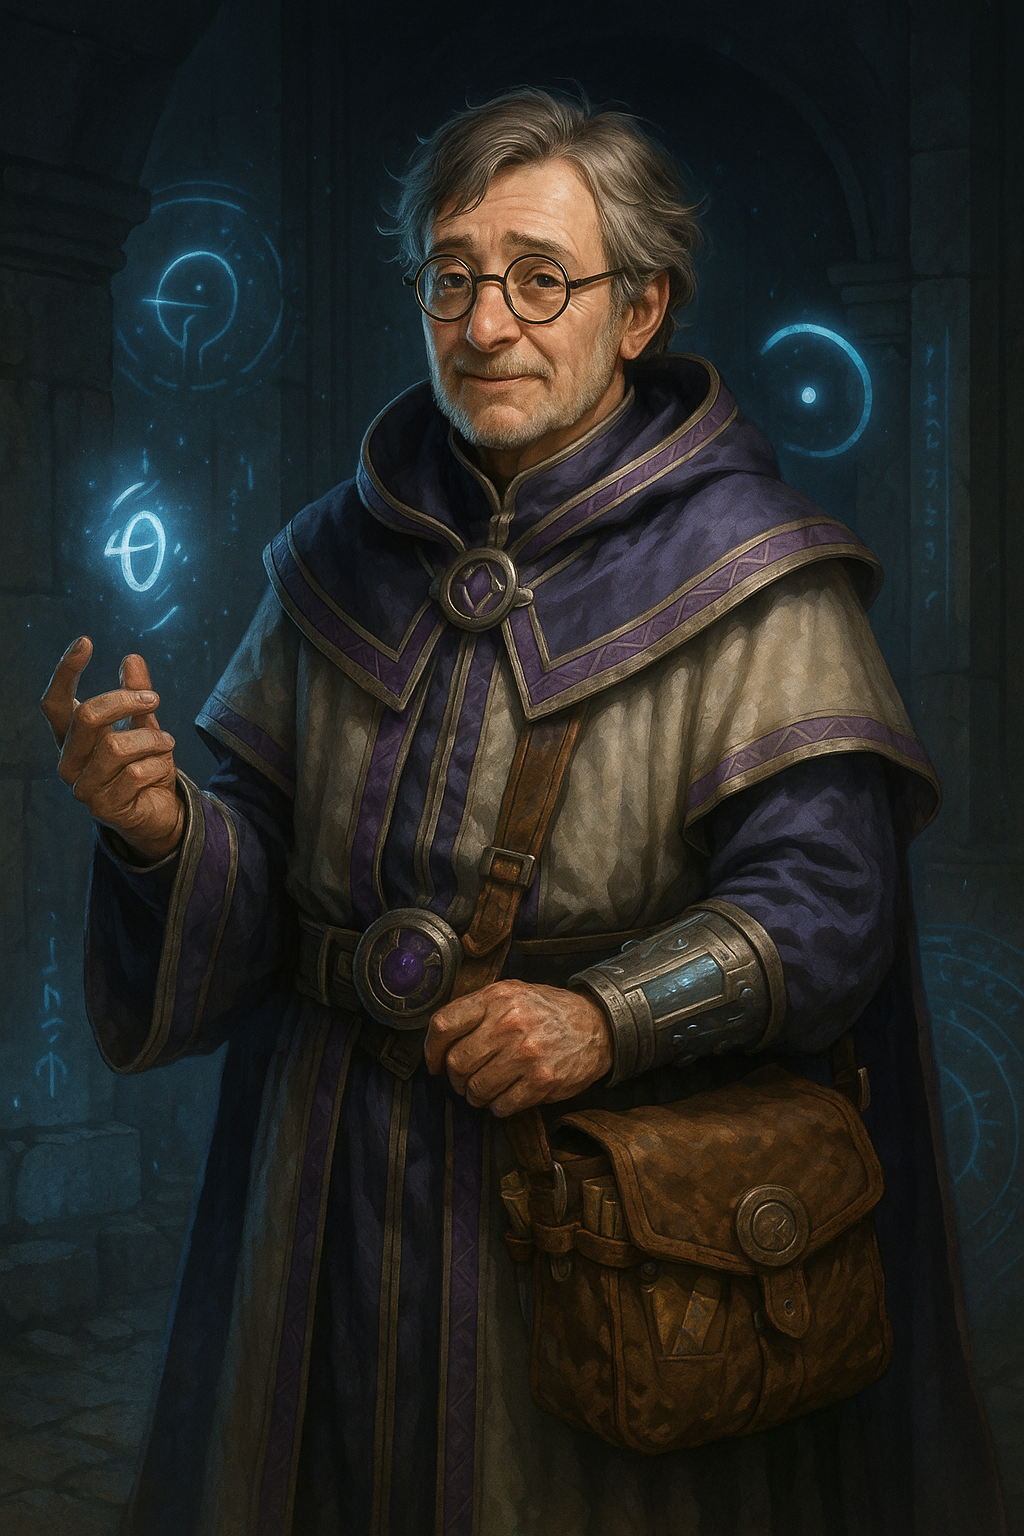
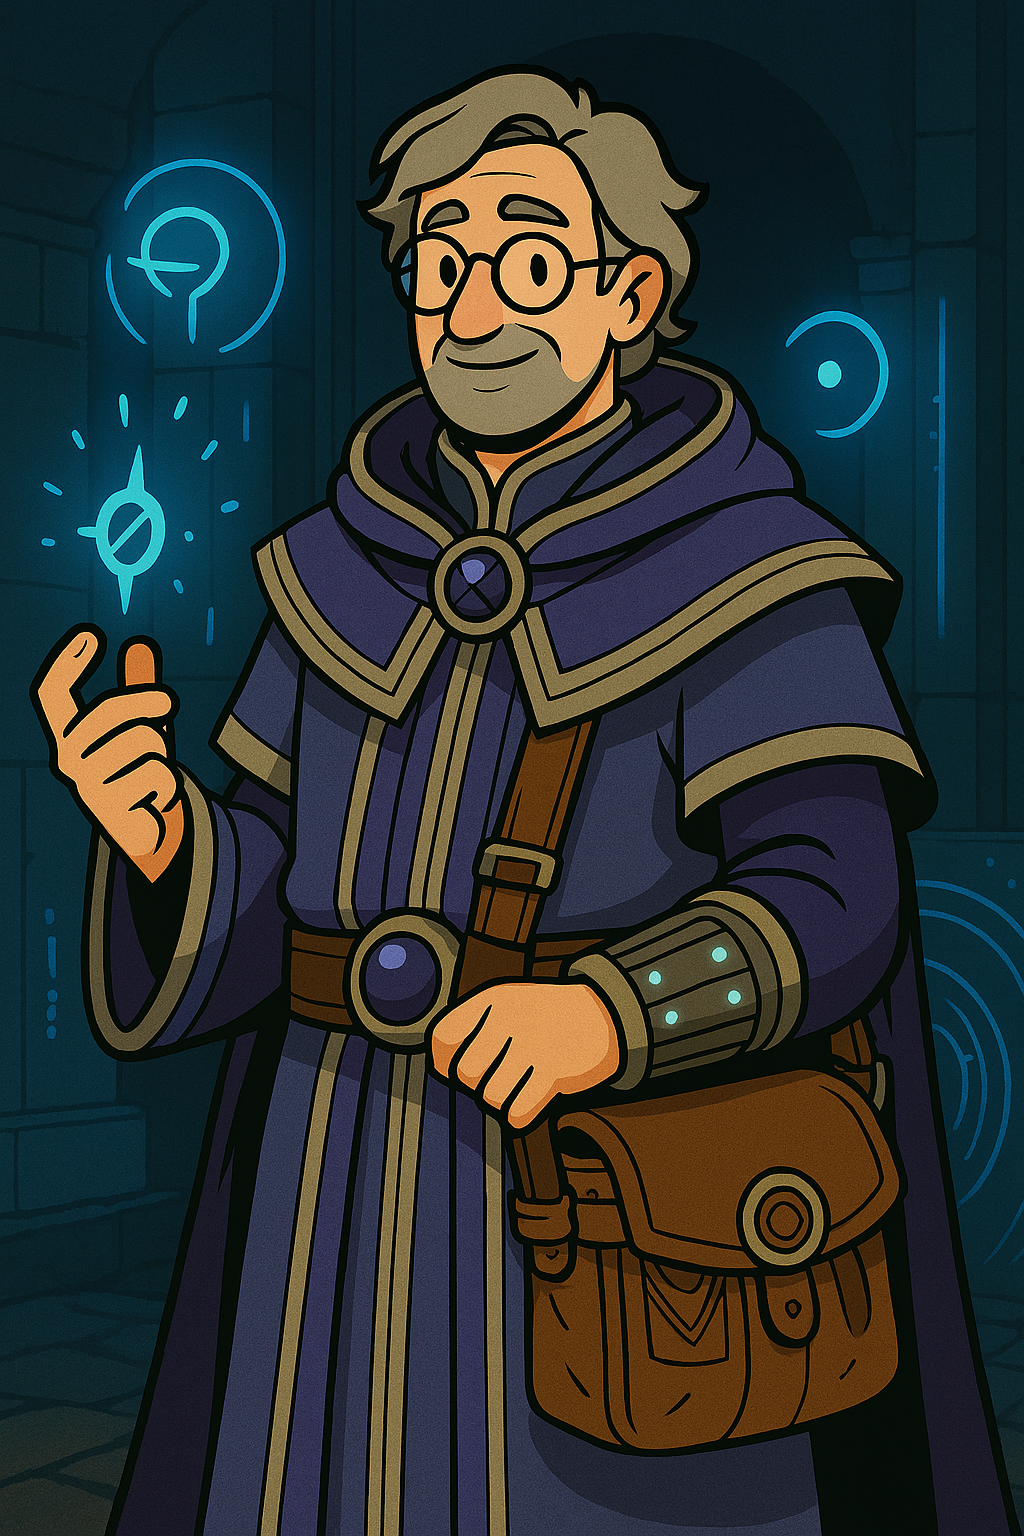
char img refresh, DoT charge bug fixed

diff --git a/Assets/scripts/Arena/PassiveManager.cs b/Assets/scripts/Arena/PassiveManager.cs
@@ -1,6 +1,7 @@
 using System.Collections.Generic;
 using UnityEngine;
 using System.Linq;
+using Unity.VisualScripting;
 
 public static class PassiveManager
 {
@@ -18,12 +19,12 @@ public static class PassiveManager
     }
 
     // Called at the start of each round
-    public static void OnRoundStart(List<GameCharacter> allCharacters)
+    public static void OnRoundStart(List<GameCharacter> allCharacters, int roundNum)
     {
         //Debug.Log("PassiveManager: OnRoundStart triggered.");
         foreach (var character in allCharacters)
         {
-            HandleRoundStartPassives(character);
+            HandleRoundStartPassives(character, roundNum);
         }
     }
 
@@ -143,15 +144,21 @@ public static class PassiveManager
         }
     }
 
-    private static void HandleRoundStartPassives(GameCharacter character)
+    private static void HandleRoundStartPassives(GameCharacter character, int roundNum)
     {
         // For passives that trigger each round (like Nou, Mizca, Rover, Olthar)
         if (character.Name == "Mizca")
         {
-            if (character.DamageMultiplier <= 1.5)
+            if (roundNum <= 1)
             {
-                character.ModifyDamageMultiplier(.15f);
+                Debug.Log($"Round Number is {roundNum}");
+                return;
             }
+            if (character.DamageMultiplier <= 1.5)
+                {
+
+                    character.ModifyDamageMultiplier(.15f);
+                }
             character.TakeDamage(10, DamageType.True);
             Debug.Log("Mizca's passive applied: 15% dmg bonus at start of round and takes 10 true dmg");
             Logger.Instance.PostLog("Mizca's passive applied: 15% dmg bonus at start of round and takes 10 true dmg", LogType.Passive);

diff --git a/Assets/scripts/Arena/StatusEffect.cs b/Assets/scripts/Arena/StatusEffect.cs
@@ -97,14 +97,25 @@ public class StatusEffect
     // Apply the effect to the target on their turn
     public void ApplyEffect(GameCharacter target)
     {
+        int valueDone = 0;
         switch (Type)
         {
             case StatusEffectType.DamageOverTime:
-                target.TakeDamage(Mathf.RoundToInt(Value), DamageType);
+                valueDone = target.TakeDamage(Mathf.RoundToInt(Value), DamageType);
+                if (Source != null)
+                {
+                    Debug.Log($"{Source.Name} gained {valueDone} charge");
+                    Source.IncreaseCharge(valueDone);
+                }
                 break;
 
             case StatusEffectType.HealingOverTime:
-                target.Heal(Mathf.RoundToInt(Value));
+                valueDone = target.Heal(Mathf.RoundToInt(Value));
+                if (Source != null)
+                {
+                    Debug.Log($"{Source.Name} gained {valueDone} charge");
+                    Source.IncreaseCharge(valueDone);
+                }
                 break;
 
             case StatusEffectType.Shield:

diff --git a/Assets/scripts/CharSelectScripts/CharcterDisplayManager.cs b/Assets/scripts/CharSelectScripts/CharcterDisplayManager.cs
@@ -74,13 +74,14 @@ public class CharacterDisplayManager : MonoBehaviour
                 nameText.color = new Color(255, 255, 255, 255); // White with light alpha
                 break;
             case "UC":
-                nameText.color = new Color(182, 207, 205, 255); // White with light alpha
+                nameText.color = new Color(0.2f, 0.6f, 1f, 1f); // White with light alpha
                 break;
             case "R":
-                nameText.color = new Color(48, 222, 0, 255); // Green-ish
+                nameText.color = new Color(0.2f, 0.6f, 0f, 1f); // Green-ish
                 break;
             case "UR":
-                nameText.color = new Color(255, 81, 242, 255); // Purple
+                nameText.color = new Color(0.6f, 0f, 1f, 1f); // Purple
+                 Debug.Log($"{character.name}'s color is set to purple");
                 break;
             case "L":
                 nameText.color = new Color(255, 192, 0, 255); // Gold

diff --git a/Assets/scripts/Arena/TurnManager.cs b/Assets/scripts/Arena/TurnManager.cs
@@ -93,7 +93,7 @@ public class TurnManager : MonoBehaviour
             
         }
         PassiveManager.ClearResurrectionTracker();
-        PassiveManager.OnRoundStart(charactersInOrder);
+        PassiveManager.OnRoundStart(charactersInOrder, currentRound);
         if (roundText != null)
         {
             roundText.text = $"Round {currentRound}";

diff --git a/Assets/scripts/Arena/CharacterFactory.cs b/Assets/scripts/Arena/CharacterFactory.cs
@@ -882,7 +882,7 @@ public static class CharacterFactory
 
         var skill = new Ability(
             moves[2].name, moves[2].description, AbilityType.Skill, moves[2].cooldown,
-            0, 0, 50, 0, TargetType.AllyOrSelf, 2
+            0, 0, 25, 0, TargetType.AllyOrSelf, 2
         );
 
         var flamingWardEffects = new List<StatusEffect>
